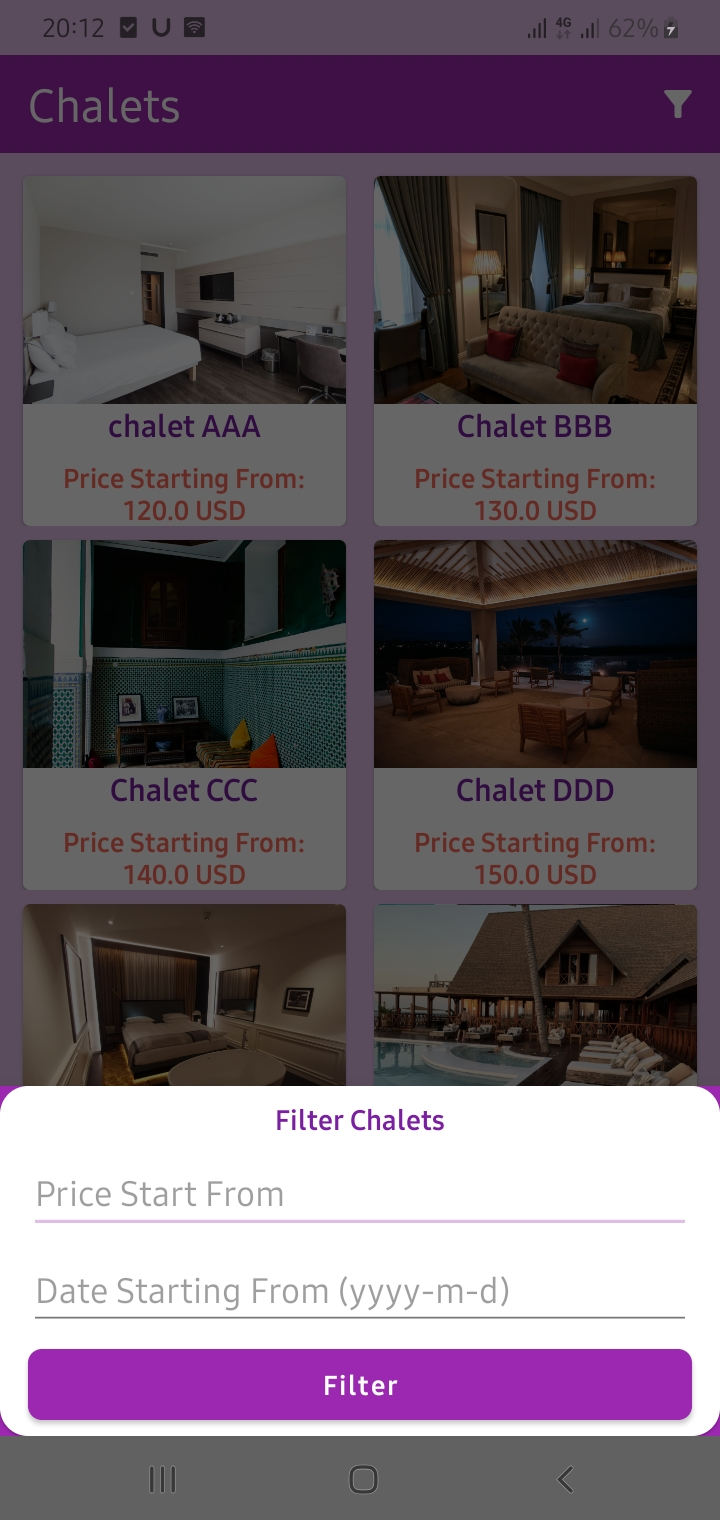
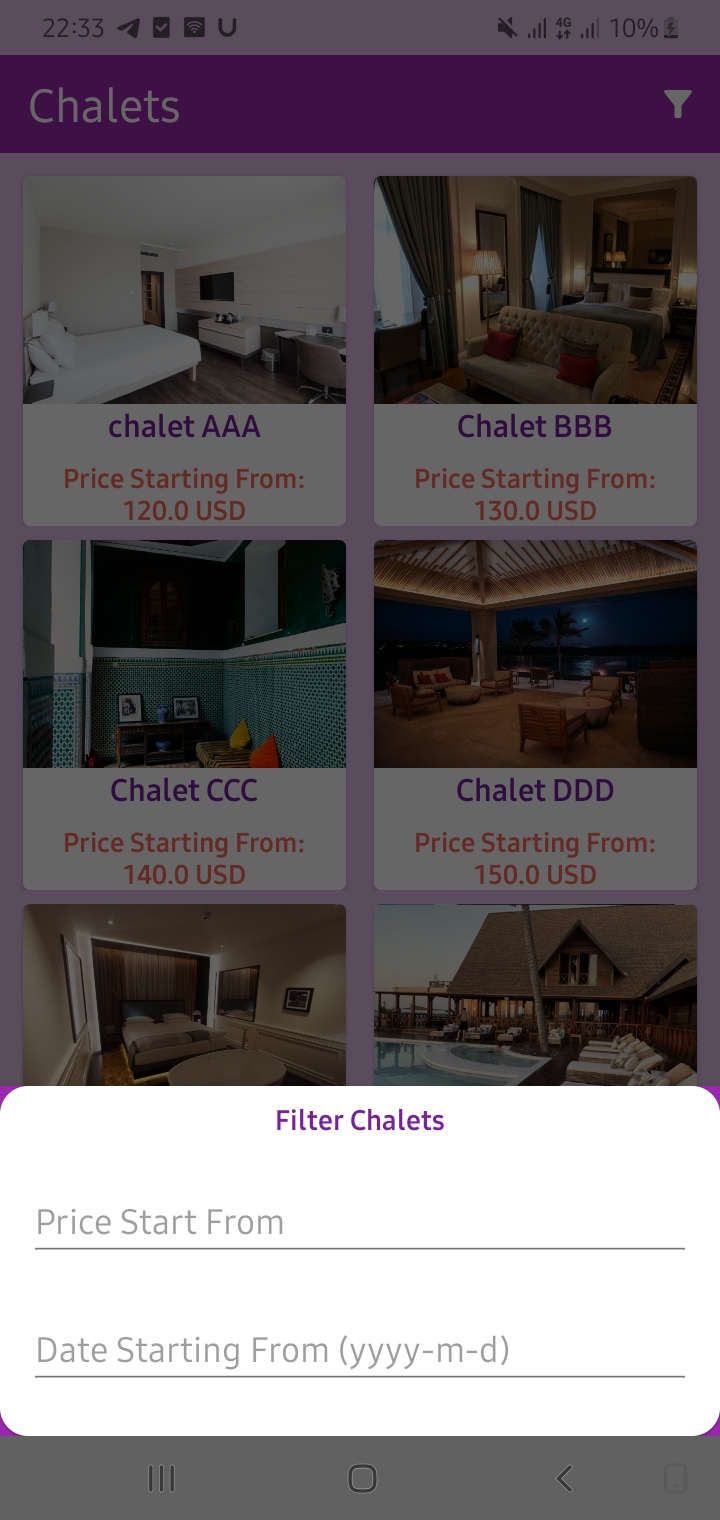
add filter ability

diff --git a/app/src/main/java/com/learningAndroiddeve/androidcalenderview/allchalets/AllFragments.kt b/app/src/main/java/com/learningAndroiddeve/androidcalenderview/allchalets/AllFragments.kt
@@ -1,13 +1,15 @@
 package com.learningAndroiddeve.androidcalenderview.allchalets
 
-import androidx.lifecycle.ViewModelProvider
 import android.os.Bundle
+import android.text.Editable
+import android.text.TextWatcher
 import android.view.*
 import android.widget.Toast
-import androidx.fragment.app.Fragment
 import androidx.appcompat.app.AppCompatActivity
 import androidx.databinding.DataBindingUtil
 import androidx.databinding.ViewDataBinding
+import androidx.fragment.app.Fragment
+import androidx.lifecycle.ViewModelProvider
 import androidx.lifecycle.observe
 import androidx.recyclerview.widget.DefaultItemAnimator
 import com.google.android.material.bottomsheet.BottomSheetDialog
@@ -17,11 +19,12 @@ import com.learningAndroiddeve.androidcalenderview.databinding.AllChaletsFragmen
 import kotlinx.android.synthetic.main.filter_bottom_sheets.view.*
 import kotlinx.coroutines.ExperimentalCoroutinesApi
 
+
 class AllFragments : Fragment() {
 
     private lateinit var allFragmentsViewModel: AllFragmentsViewModel
     private lateinit var allChaletsFragmentBinding: AllChaletsFragmentBinding
-
+    private lateinit var chaletAdapter: ChaletAdapter
     @ExperimentalCoroutinesApi
     override fun onCreateView(
         inflater: LayoutInflater,
@@ -44,11 +47,12 @@ class AllFragments : Fragment() {
         (activity as AppCompatActivity).supportActionBar?.setDisplayShowTitleEnabled(false)
         setHasOptionsMenu(true)
 
-        val chaletAdapter = ChaletAdapter()
+        chaletAdapter = ChaletAdapter()
         allChaletsFragmentBinding.chaletsList.itemAnimator = DefaultItemAnimator()
         allChaletsFragmentBinding.chaletsList.adapter = chaletAdapter
         subscribeUi(chaletAdapter)
 
+        filterDialog()
         return allChaletsFragmentBinding.root
     }
 
@@ -67,34 +71,48 @@ class AllFragments : Fragment() {
     }
 
 
-    @ExperimentalCoroutinesApi
     private fun subscribeUi(adapter: ChaletAdapter) {
         allFragmentsViewModel.allChalets.observe(viewLifecycleOwner) { allChalets ->
-            adapter.submitList(allChalets)
+            adapter.addList(allChalets)
         }
     }
 
+    @ExperimentalCoroutinesApi
     private fun filterDialog() {
-        val dialogBinding = DataBindingUtil.inflate<ViewDataBinding>(LayoutInflater.from(context),
+        val dialogBinding = DataBindingUtil.inflate<ViewDataBinding>(
+            LayoutInflater.from(context),
             R.layout.filter_bottom_sheets,
-                null,
-                false
-            )
+            null,
+            false
+        )
         val dialog = context?.let {
             BottomSheetDialog(it)
         }
         dialog?.setContentView(dialogBinding.root.rootView)
-        dialogBinding.root.rootView.button_filter.setOnClickListener {
-            val price = dialogBinding.root.rootView.editTextText_price_from.text.toString()
-            val date = dialogBinding.root.rootView.editTextText_date_from.text.toString()
-            if(price.isEmpty() || date.isEmpty()){
-                Toast.makeText(requireContext(), "Please Enter Valid Data", Toast.LENGTH_SHORT).show()
-            }else{
-                Toast.makeText(requireContext(), "go fliter", Toast.LENGTH_SHORT).show()
+            dialogBinding.root.rootView.editTextText_price_from.addTextChangedListener(object : TextWatcher {
+            override fun afterTextChanged(s: Editable) {
+                (allChaletsFragmentBinding.chaletsList.adapter as ChaletAdapter).filter(s.toString())
             }
-        }
+            override fun beforeTextChanged(s: CharSequence, start: Int, count: Int, after: Int) {
+            }
+            override fun onTextChanged(s: CharSequence, start: Int, before: Int, count: Int) {
+                (allChaletsFragmentBinding.chaletsList.adapter as ChaletAdapter).filter(s.toString())
+            }
+        })
+
+        dialogBinding.root.rootView.editTextText_date_from.addTextChangedListener(object : TextWatcher {
+            override fun afterTextChanged(s: Editable) {
+                (allChaletsFragmentBinding.chaletsList.adapter as ChaletAdapter).filter(s.toString())
+            }
+            override fun beforeTextChanged(s: CharSequence, start: Int, count: Int, after: Int) {
+            }
+            override fun onTextChanged(s: CharSequence, start: Int, before: Int, count: Int) {
+                (allChaletsFragmentBinding.chaletsList.adapter as ChaletAdapter).filter(s.toString())
+            }
+        })
 
         dialog?.show()
        }
+
 
 }

diff --git a/app/src/main/java/com/learningAndroiddeve/androidcalenderview/adapter/ChaletAdapter.kt b/app/src/main/java/com/learningAndroiddeve/androidcalenderview/adapter/ChaletAdapter.kt
@@ -7,9 +7,28 @@ import androidx.recyclerview.widget.ListAdapter
 import androidx.recyclerview.widget.RecyclerView
 import com.learningAndroiddeve.androidcalenderview.data.ChaletsProperties
 import com.learningAndroiddeve.androidcalenderview.databinding.ChaletViewItemBinding
+import kotlinx.coroutines.CoroutineScope
+import kotlinx.coroutines.Dispatchers
+import kotlinx.coroutines.flow.asFlow
+import kotlinx.coroutines.launch
+import kotlinx.coroutines.withContext
+import java.util.*
 
 
 class ChaletAdapter() : ListAdapter<ChaletsProperties, ChaletAdapter.ChaletPropertyViewHolder>(DiffCallback) {
+
+    private val adapterScope = CoroutineScope(Dispatchers.Default)
+    var unfilteredList: List<ChaletsProperties>? = null
+
+    fun addList(allChaletReservationsResponse: List<ChaletsProperties>?) {
+        adapterScope.launch {
+            withContext(Dispatchers.Main){
+                unfilteredList = allChaletReservationsResponse
+                submitList(allChaletReservationsResponse)
+            }
+        }
+    }
+
 
     class ChaletPropertyViewHolder(private var binding: ChaletViewItemBinding):
         RecyclerView.ViewHolder(binding.root) {
@@ -25,9 +44,6 @@ class ChaletAdapter() : ListAdapter<ChaletsProperties, ChaletAdapter.ChaletPrope
 
     override fun onBindViewHolder(holder: ChaletPropertyViewHolder, position: Int) {
         val chaletsProperty = getItem(position)
-//        holder.itemView.setOnClickListener {
-//            onClickListener.onClick(imagesProperty)
-//        }
         holder.bind(chaletsProperty)
     }
 
@@ -40,6 +56,21 @@ class ChaletAdapter() : ListAdapter<ChaletsProperties, ChaletAdapter.ChaletPrope
         override fun areContentsTheSame(oldItem: ChaletsProperties, newItem: ChaletsProperties): Boolean {
             return oldItem.chaletName == newItem.chaletName
         }
+    }
+
+    fun filter(query:String) {
+                val list = mutableListOf<ChaletsProperties>()
+                if(query.isNotEmpty()) {
+                    unfilteredList?.filter {
+                        it.chaletNormalDayPrice.toString().toLowerCase(Locale.getDefault()).contains(query) ||
+                                it.chaletAvailableDays.toString().toLowerCase(Locale.getDefault()).contains(query)
+                    }?.let {
+                        list.addAll(it)
+                    }
+                } else {
+                    unfilteredList?.let { list.addAll(it) }
+                }
+                submitList(list)
     }
 
     class OnClickListener(val clickListener: (chaletsProperties:ChaletsProperties) -> Unit) {

diff --git a/app/src/main/java/com/learningAndroiddeve/androidcalenderview/allchalets/AllFragmentsViewModel.kt b/app/src/main/java/com/learningAndroiddeve/androidcalenderview/allchalets/AllFragmentsViewModel.kt
@@ -1,12 +1,13 @@
 package com.learningAndroiddeve.androidcalenderview.allchalets
 
 import android.app.Application
-import androidx.lifecycle.LiveData
-import androidx.lifecycle.MutableLiveData
-import androidx.lifecycle.ViewModel
-import androidx.lifecycle.viewModelScope
+import android.util.Log
+import androidx.lifecycle.*
 import com.learningAndroiddeve.androidcalenderview.R
 import com.learningAndroiddeve.androidcalenderview.data.ChaletsProperties
+import kotlinx.coroutines.Dispatchers
+import kotlinx.coroutines.ExperimentalCoroutinesApi
+import kotlinx.coroutines.flow.*
 import kotlinx.coroutines.launch
 
 class AllFragmentsViewModel(var application: Application) : ViewModel() {
@@ -14,6 +15,7 @@ class AllFragmentsViewModel(var application: Application) : ViewModel() {
     private val _allChalets = MutableLiveData<List<ChaletsProperties>>()
     val allChalets: LiveData<List<ChaletsProperties>>
         get() = _allChalets
+
 
      var allChaletsInformations = listOf(ChaletsProperties("chalet AAA" ,
          "For Families Only",120.0,14.0
@@ -130,4 +132,7 @@ class AllFragmentsViewModel(var application: Application) : ViewModel() {
             _allChalets.value = listOf()
         }
     }
+
+
+
 }

diff --git a/app/src/main/java/com/learningAndroiddeve/androidcalenderview/data/ChaletsProperties.kt b/app/src/main/java/com/learningAndroiddeve/androidcalenderview/data/ChaletsProperties.kt
@@ -1,5 +1,7 @@
 package com.learningAndroiddeve.androidcalenderview.data
 
+import kotlinx.coroutines.flow.Flow
+
 
 data  class ChaletsProperties (
  var chaletName:String,
